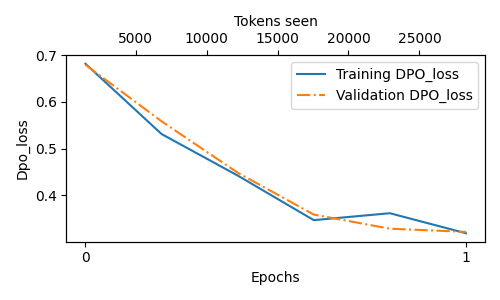
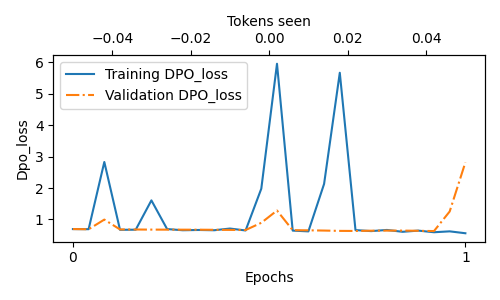
Update parameters, add DPOP logic and fix generate function and format_input function issues

diff --git a/src/utility.py b/src/utility.py
@@ -34,7 +34,11 @@ def format_input(entry):
             f"\n\n### Instruction:\n{entry['instruction']}"
         ) # for the instruction-data-with-preference.json
         input_text = f"\n\n### Input:\n{entry['input']}" if entry["input"] else "" # for the instruction-data-with-preference.json
-        return system_prompt + input_text
+        return (
+            "<|begin_of_text|><|start_header_id|>system<|end_header_id|>\n"
+            f"{system_prompt}<|eot_id|><|start_header_id|>user<|end_header_id|>\n"
+            f"{input_text}<|eot_id|>\n<|start_header_id|>assistant<|end_header_id|>\n"
+        )
     
     elif "question" in entry:
         system_prompt = (
@@ -158,26 +162,30 @@ def generate(
     model, 
     idx, 
     stopping_criteria=None,
-    max_new_tokens=None,
-    context_size=4096, 
-    temperature=config.temperature,
+    max_new_tokens=512,
+    context_size=4096,
+    temperature=0.0,
     top_k=None,
     top_p=None,  
     eot_token_id=None
 ):
     """
+    Generates text given a starting sequence of token IDs.
+
     Args:
-        idx: the input token IDs
-        stopping_criteria: a function that determines when to stop the generation process
-        max_new_tokens: the maximum number of tokens to generate
-        context_size: the maximum number of tokens that are considered as the contextual input 
-                    when generating the next token
-        temperature: the temperature value for sampling
-        top_k: the number of highest probability tokens to keep for sampling
-        top_p: the cumulative probability threshold for top-p sampling
-        eot_token_id: the token ID for the end-of-text token
+        model: The language model.
+        idx (torch.LongTensor): The input token IDs, shape (batch_size, seq_len).
+        stopping_criteria (StoppingCriteriaList): Any stopping criteria to be applied.
+        max_new_tokens (int): The maximum number of tokens to generate.
+        context_size (int): The maximum context size to preserve from the prompt.
+        temperature (float): If > 0, controls the sampling randomness. 
+                             If == 0, a pure greedy (argmax) decode is done.
+        top_k (int): The number of highest probability tokens to keep for sampling.
+        top_p (float): The cumulative probability threshold for top-p sampling.
+        eot_token_id (int): The token ID marking end-of-text.
+
     Returns:
-        idx: the token IDs of the generated text
+        torch.LongTensor: The token IDs of the generated text (including the prompt).
         
     enhanced generation function that supports both top-k and top-p
     priority: top_p > top_k (when both are set)
@@ -186,61 +194,62 @@ def generate(
     device = model.device 
     idx = idx.to(device)
 
-    # Limit the maximum number of iterations to prevent infinite generation (iteration)
     for iteration in range(max_new_tokens):
-        # truncate context
-        idx_cond = idx[:, -context_size:]#.to(device) 
+        # Truncate the context
+        idx_cond = idx[:, -context_size:]  # shape: (batch_size, <=context_size)
         
-        # get logits
+        # Compute logits; we only need the final token’s logits
         with torch.no_grad():
             output = model(idx_cond)
             logits = output.logits if hasattr(output, "logits") else output[0]
-        
-        # select the last token's logits
-        logits = logits[:, -1, :] / (temperature if temperature > 0 else 1.0)
-        
-        # Check top_p and top_k are valid
-        if top_p is not None:
-            assert 0 < top_p <= 1.0, f"top_p must be between 0 and 1, got {top_p}"
-        if top_k is not None:
-            assert top_k > 0, f"top_k must be positive, got {top_k}"
-            
-        # prioritize top-p sampling
-        if top_p is not None and top_p < 1.0:
-            sorted_logits, sorted_indices = torch.sort(logits, descending=True)
-            cumulative_probs = torch.cumsum(
-                torch.softmax(sorted_logits, dim=-1), 
-                dim=-1
-            )
-            
-            # remove tokens with cumulative probability above top_p
-            sorted_indices_to_remove = cumulative_probs > top_p
-            # keep the first token above top_p
-            sorted_indices_to_remove[..., 1:] = sorted_indices_to_remove[..., :-1].clone()
-            sorted_indices_to_remove[..., 0] = False
-            
-            # create mask
-            indices_to_remove = sorted_indices_to_remove.scatter(
-                1, sorted_indices, sorted_indices_to_remove
-            )
-            logits[indices_to_remove] = float('-inf')
+        logits = logits[:, -1, :]  # shape: (batch_size, vocab_size)
 
-        # secondary top-k sampling
-        elif top_k is not None and top_k > 0:
-            top_k = min(top_k, logits.size(-1))
-            top_logits, _ = torch.topk(logits, top_k)
-            min_val = top_logits[:, -1]
-            logits = torch.where(logits < min_val, float('-inf'), logits)
+        # Decide how to pick the next token
+        if temperature == 0.0:
+            # Greedy decode: pick the argmax
+            next_token = torch.argmax(logits, dim=-1).unsqueeze(-1)
+        else:
+            # Scale by temperature
+            logits = logits / temperature
 
-        # Probability Calculation and Sampling
-        probs = torch.softmax(logits, dim=-1)
-        idx_next = torch.multinomial(probs, num_samples=1).to(device)
+            # Apply top-p sampling (priority over top-k if both specified)
+            if top_p is not None and top_p < 1.0:
+                sorted_logits, sorted_indices = torch.sort(logits, descending=True)
+                cumulative_probs = torch.cumsum(torch.softmax(sorted_logits, dim=-1), dim=-1)
 
-        # EOT check
-        if (eot_token_id is not None and idx_next.item() == eot_token_id) or iteration == max_new_tokens - 1:
+                # Exclude tokens with cumulative probability above top_p
+                sorted_indices_to_remove = cumulative_probs > top_p
+                # Shift one token to keep the first token that crosses top_p
+                sorted_indices_to_remove[..., 1:] = sorted_indices_to_remove[..., :-1].clone()
+                sorted_indices_to_remove[..., 0] = False
+
+                # Scatter back
+                indices_to_remove = sorted_indices_to_remove.scatter(
+                    1, sorted_indices, sorted_indices_to_remove
+                )
+                logits[indices_to_remove] = float("-inf")
+
+            # Apply top-k sampling (if top_p not used)
+            elif top_k is not None and top_k > 0:
+                top_k = min(top_k, logits.size(-1))
+                kth_logits, kth_indices = torch.topk(logits, top_k)
+                # Value of the lowest logit in top-k
+                min_val = kth_logits[:, -1].unsqueeze(-1)
+                # Anything below that gets set to -inf
+                logits = torch.where(logits < min_val, torch.tensor(float("-inf")).to(device), logits)
+
+            # Sample from the distribution
+            probs = torch.softmax(logits, dim=-1)
+            next_token = torch.multinomial(probs, num_samples=1)
+
+        # Concatenate the chosen token
+        idx = torch.cat((idx, next_token), dim=1)
+
+        # Check EOT or max tokens
+        if eot_token_id is not None:
+            if (next_token == eot_token_id).any():
+                # If any in the batch hits EOT, you might choose to break or handle individually
                 break
-
-        idx = torch.cat((idx.to(device), idx_next), dim=1)
 
     return idx
 

diff --git a/src/main.py b/src/main.py
@@ -31,6 +31,7 @@ cache_dir = config.cache_dir # cache directory for the Hugging Face model
 result_dir = config.result_dir # directory to save the output text and figures
 model_name = config.model_name
 file_path = config.file_content
+dpop_output_txt = config.dpop_output_txt
 
 # --------- Hyperparameters ---------
 allowed_max_length = config.allowed_max_length
@@ -42,8 +43,8 @@ learning_rate = config.learning_rate
 weight_decay = config.weight_decay
 temperature = config.temperature
 top_p = config.top_p
-dpo_loss_fn = DPOLoss(beta=config.beta, lambda_kl=config.lambda_kl, lambda_dpop=config.lambda_dpop)
-print(f"Using DPOP with beta={config.beta}, lambda_kl={config.lambda_kl}, lambda_dpop={config.lambda_dpop}")
+dpo_loss_fn = DPOLoss(beta=config.beta, lambda_dpop=config.lambda_dpop)
+print(f"Using DPOP with beta={config.beta}, lambda_dpop={config.lambda_dpop}")
 
 # --------- Device ---------
 device = torch.device("cuda") if torch.cuda.is_available() else torch.device("cpu")
@@ -237,6 +238,9 @@ policy_model.save_pretrained(save_path)
 tokenizer.save_pretrained(save_path)
 print(f"Model and tokenizer saved to {save_path}")
 
+# Ensure result directory exists
+os.makedirs(config.result_dir, exist_ok=True)
+
 # Plot the losses
 epochs_tensor = torch.linspace(0, num_epochs, len(tracking["train_losses"]))
 plot_losses(
@@ -314,7 +318,12 @@ for i, entry in enumerate(val_data[:3]):
     # ft_perplexity = calculate_perplexity(fine_tuned_model, fine_tuned_tokenizer, input_text)
     # ref_perplexity = calculate_perplexity(ref_model, tokenizer, input_text)
 
-    print(f"\nInput{i}: {entry['question']}")
+    if ('question' in entry):
+        print(f"\nInput{i}: {entry['question']}")
+    elif ('instruction' in entry):
+        print(f"\nInput{i}: {entry['instruction']}")
+    else:
+        print(f"\nInput{i}: [No valid input key found]")
 
     print("\n ----- Reference Model ----- ")
     print(f"Reference Response: {ref_response}")
@@ -376,7 +385,13 @@ for i, entry in enumerate(random.sample(test_data[:5], len(test_data[:5]))):
     fine_tuned_model_full_text = fine_tuned_tokenizer.decode(fine_tuned_model_generated[0], skip_special_tokens=False)
     fine_tuned_model_response = postprocess_response(fine_tuned_model_full_text)
 
-    print(f"\nInput{i}: {entry['question']}")
+    if ('question' in entry):
+        print(f"\nInput{i}: {entry['question']}")
+    elif ('instruction' in entry):
+        print(f"\nInput{i}: {entry['instruction']}")
+    else:
+        print(f"\nInput{i}: [No valid input key found]")
+
     print("\n ----- Reference Model ----- ")
     print(f"Reference Response: {ref_response}")
 
@@ -387,8 +402,13 @@ for i, entry in enumerate(random.sample(test_data[:5], len(test_data[:5]))):
     print(f"Expected Answer: {entry['chosen']}")
     print("="*80, "\n")
 
-    with open(os.path.join(result_dir, "foutput_test.txt"), "a") as f:
-        f.write(f"\nInput{i}: {entry['question']}")
+    with open(dpop_output_txt, "a") as f:
+        if ('question' in entry):
+            f.write(f"\nInput{i}: {entry['question']}")
+        elif ('instruction' in entry):
+            f.write(f"\nInput{i}: {entry['instruction']}")
+        else:
+            f.write(f"\nInput{i}: [No valid input key found]")
         f.write("\n ----- Reference Model ----- ")
         f.write(f"Reference Response: {ref_response}")
         f.write("\n ----- Policy Model ----- ")

diff --git a/src/dpoLoss.py b/src/dpoLoss.py
@@ -3,17 +3,16 @@ import torch.nn as nn
 import torch.nn.functional as F
 
 class DPOLoss(nn.Module):
-    def __init__(self, beta, lambda_kl, lambda_dpop):
+    def __init__(self, beta, lambda_dpop):
         """
         Initializes the DPO Loss module.
 
         Args:
             beta (float): Scaling factor for the loss. Controls the strength of preference optimization.
-            lambda_kl (float): Weight of the KL divergence penalty to prevent model drift in DPO loss.
+            lambda_dpop (float): Weight for DPOP term to prevent reduction of preferred completion likelihood
         """
         super(DPOLoss, self).__init__()
         self.beta = beta
-        self.lambda_kl = lambda_kl
         self.lambda_dpop = lambda_dpop
 
     def compute_logprobs(self, logits, labels, selection_mask=None):
@@ -84,11 +83,11 @@ class DPOLoss(nn.Module):
             - The average "chosen" reward (model_chosen_logprobs - reference_chosen_logprobs).
             - The average "rejected" reward (model_rejected_logprobs - reference_rejected_logprobs).
         """
-        # Calculate DPO logits: pi_diff - ref_diff
+        # Compute log probability differences
         pi_diff = model_chosen_logprobs - model_rejected_logprobs
         ref_diff = reference_chosen_logprobs - reference_rejected_logprobs
         logits = pi_diff - ref_diff
-        print(f"Logits: {logits.mean().item():.4f}")
+        # print(f"Logits: {logits.mean().item():.4f}")
         # logits = (logits - logits.mean()) / (logits.std() + 1e-8)  # Normalize logits
         
         # DPO (Eq. 7 of https://arxiv.org/pdf/2305.18290.pdf), calculate standard DPO loss: -logsigmoid(beta * logits)

diff --git a/src/config.py b/src/config.py
@@ -13,7 +13,7 @@ lambda_kl = 0.1  # Weight of the KL divergence penalty to prevent model drift in
 lambda_dpop = 50.0  # Weight for DPOP term to prevent reduction of preferred completion likelihood
 
 # ---------------------------------- Model parameters ----------------------------------
-allowed_max_length = 1024 # maximum number of tokens in a sequence for training input data
+allowed_max_length = 4096 # maximum number of tokens in a sequence for training input data
 max_new_tokens = 256  # maximum number of tokens to generate
 
 # --------------------------------- Training parameters ---------------------------------
@@ -41,3 +41,6 @@ file_mixed = os.path.join(data_dir, "physics_qa_mixed.json")
 
 # ------------------------ Results directory ------------------------
 result_dir = os.path.join(os.path.dirname(__file__), "..", "results")
+dpo_output_txt = os.path.join(result_dir, "dpo_output_test.txt")
+dpop_output_txt = os.path.join(result_dir, "dpop_output_test.txt")
+dpoKLP_output_txt = os.path.join(result_dir, "dpoKLP_output_test.txt")
